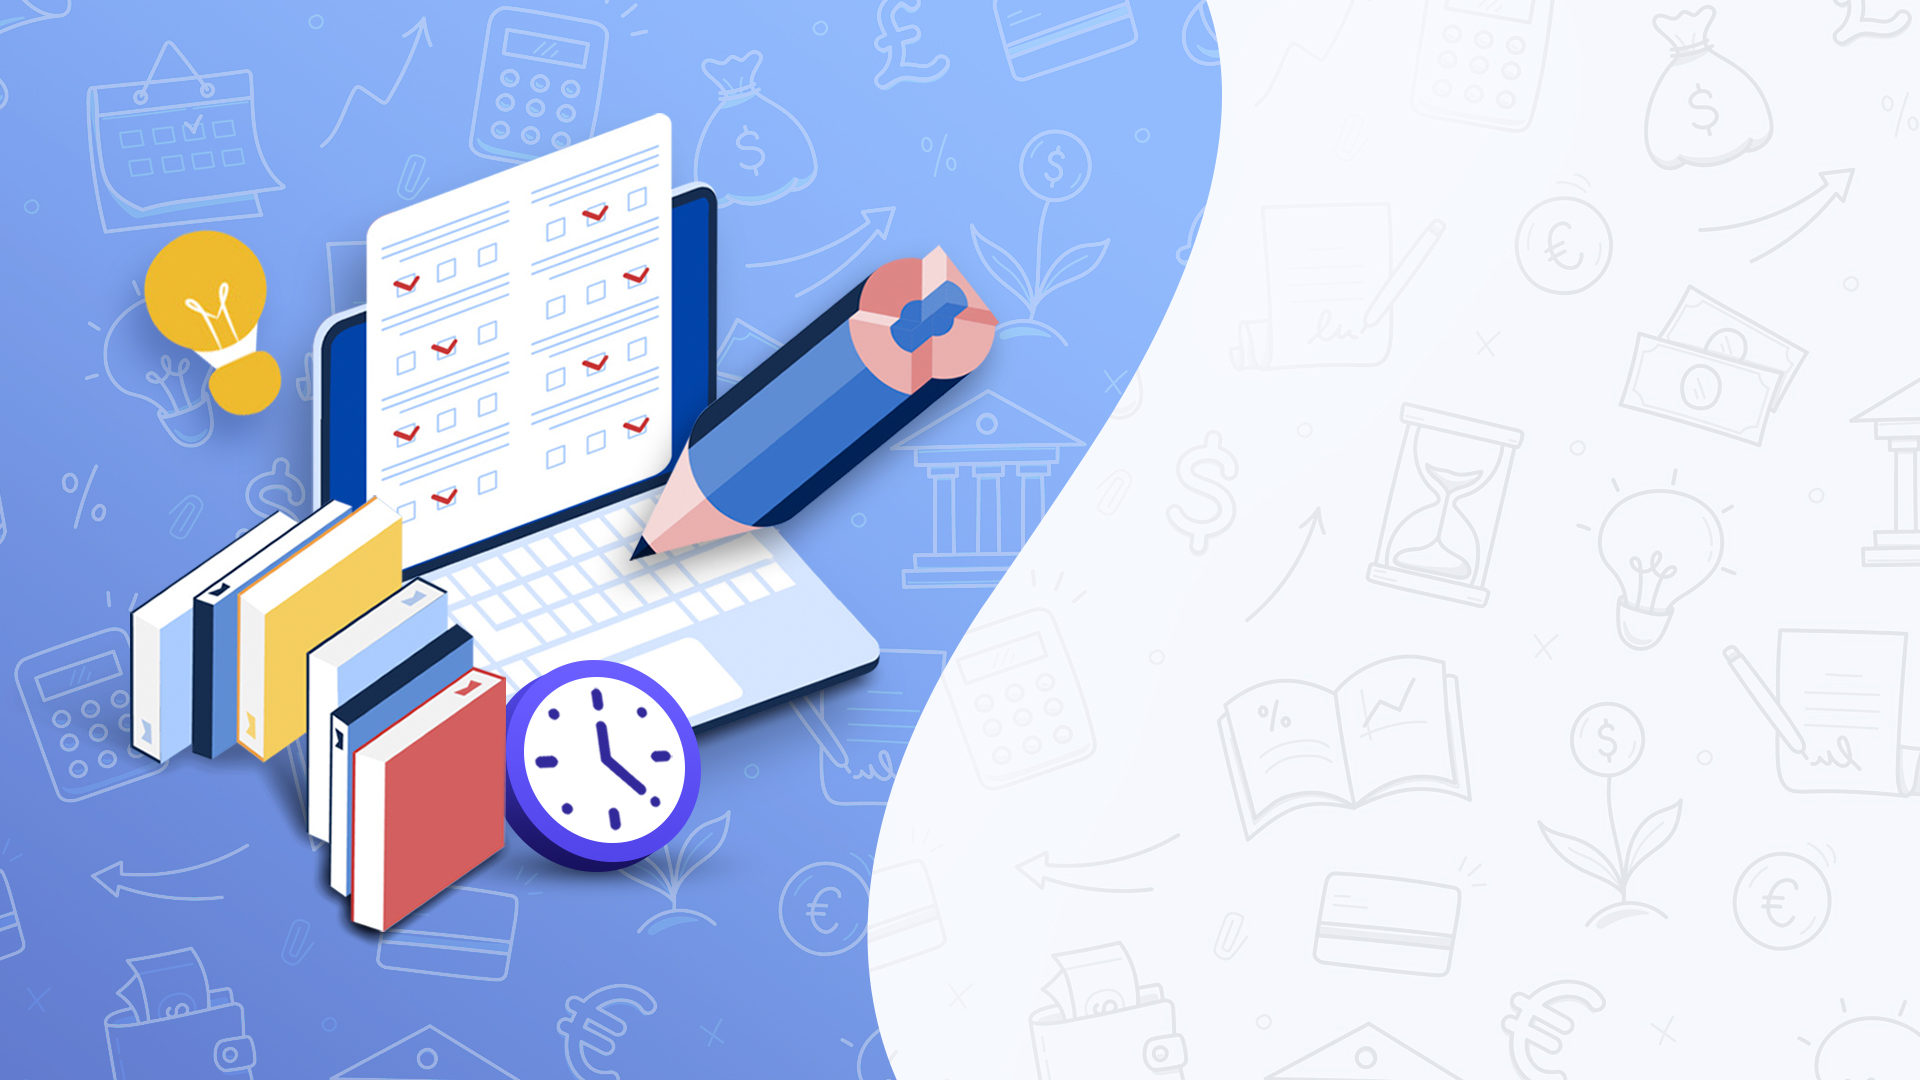
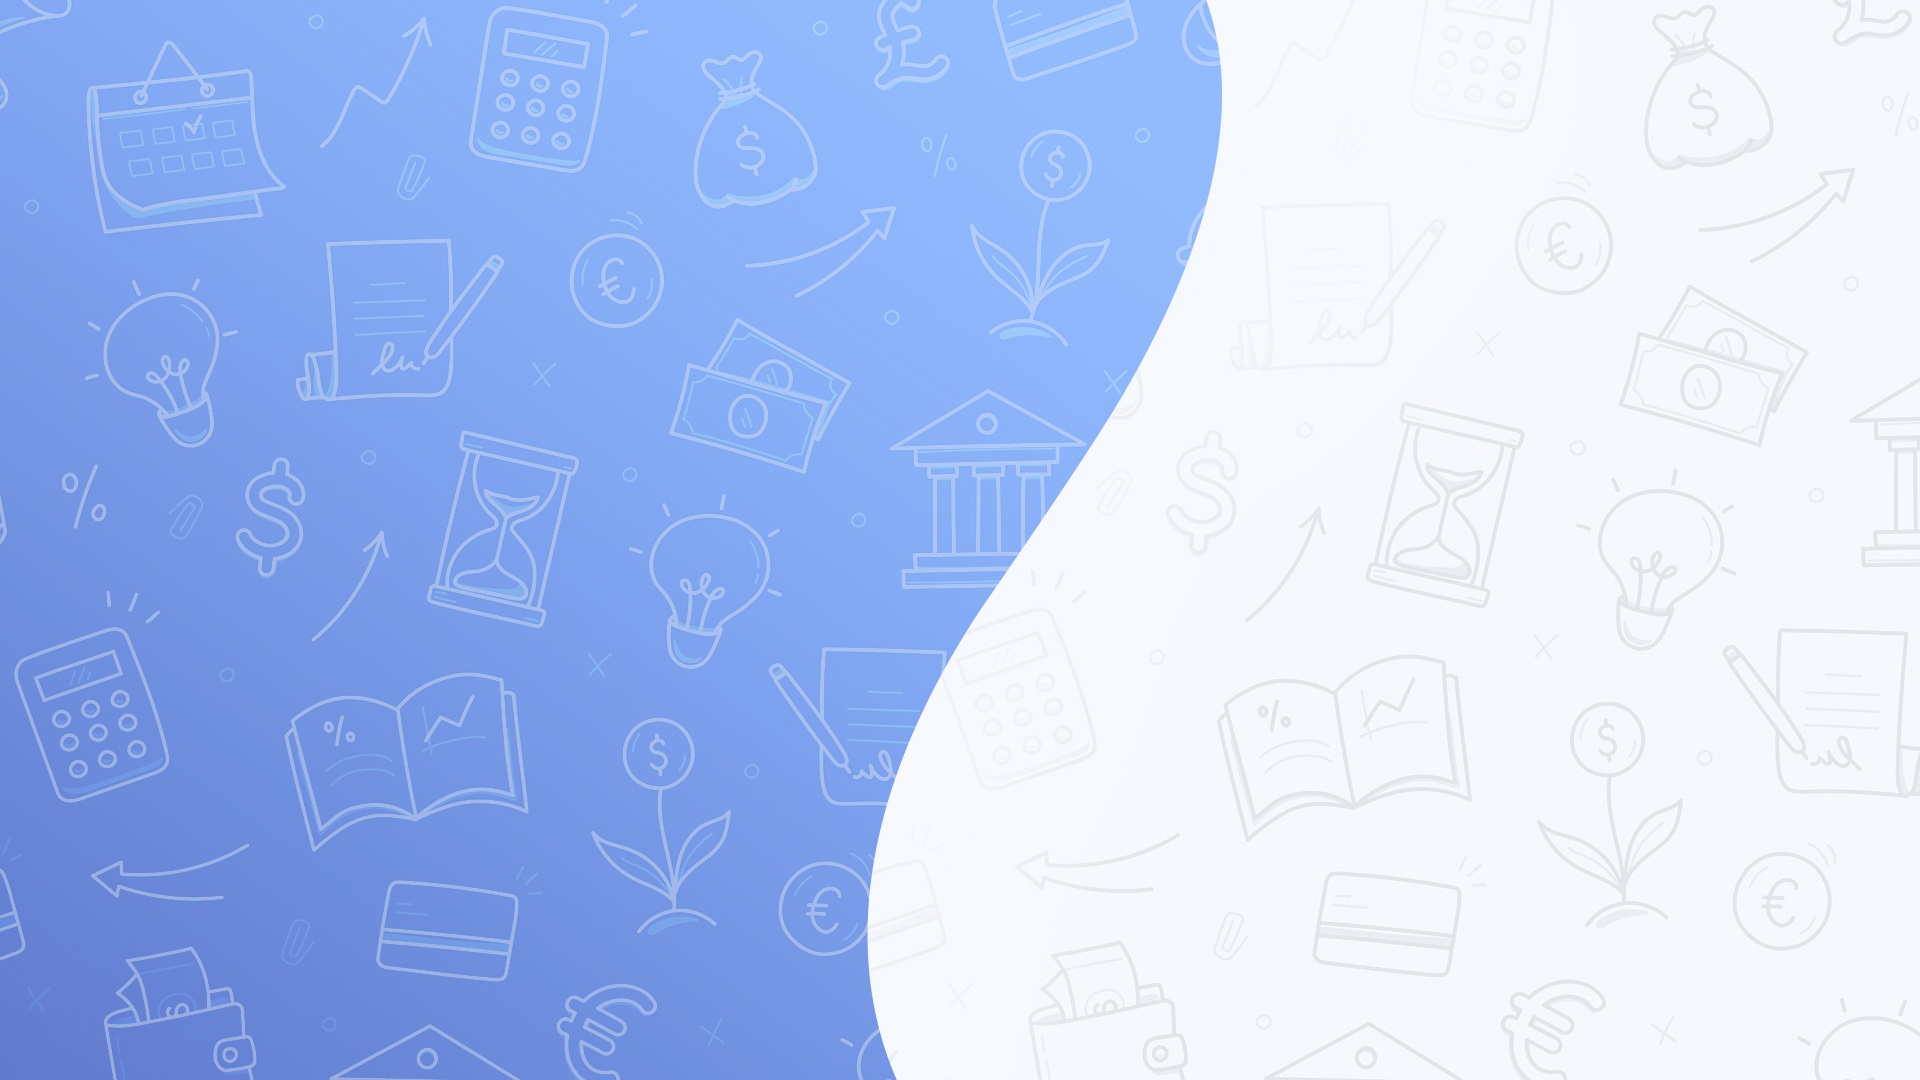
edit background image in index page

Changed region(s): [[0.0312, 0.0917, 0.5312, 0.8861]]

diff --git a/src/Pages/IndexPage.vue b/src/Pages/IndexPage.vue
@@ -4,6 +4,7 @@
 
 <template>
   <div class="page">
+    <img src="@/assets/images/design_image_index_page.png" alt="" class="design-image">
     <div class="quiz">
       <div class="quiz__title">
         <img src="@/assets/images/logo_colored.png" alt="hasanzadeh logo" class="logo">
@@ -33,6 +34,16 @@
   position: relative;
   background: url(@/assets/images/index_page_background.jpg);
   background-size: cover;
+}
+
+.design-image {
+  position: fixed;
+  top: 50%;
+  left: 25%;
+  transform: translate(-50%, -50%);
+  width: 30rem;
+  height: 5rem;
+  object-fit: fill;
 }
 
 .quiz {
@@ -70,12 +81,11 @@
     justify-content: center;
 
     &__text {
-      font-size: 2rem;
+      font-size: 1.75rem;
       color: #171264;
       font-weight: 700;
       @media only screen and (max-width: 950px) {
-        font-size: 1.8rem;
-
+        font-size: 1.65rem;
       }
     }
   }
@@ -90,7 +100,7 @@
     align-items: center;
     justify-content: center;
     @media only screen and (max-width: 950px) {
-      font-size: 1.1rem;
+      font-size: 1rem;
     }
     &__icon {
       width: 2rem;
@@ -108,13 +118,13 @@
     gap: 1.5rem;
 
     &__title {
-      font-size: 1.5rem;
+      font-size: 1.35rem;
       color: #171264;
       font-weight: 700;
     }
 
     &__rule {
-      font-size: 1.2rem;
+      font-size: 1.1rem;
       font-weight: 600;
       color: #5E605F;
       position: relative;
@@ -145,7 +155,7 @@
     display: flex;
     align-items: center;
     gap: 1rem;
-    font-size: 1.2rem;
+    font-size: 1.1rem;
     font-weight: 600;
   }
 }
@@ -158,7 +168,7 @@
   background-color: #9DF2DF;
   color: #171264;
   @media only screen and (max-width: 950px) {
-    font-size: 1.1rem;
+    font-size: 1rem;
   }
 }
 

diff --git a/src/Pages/ExamPage.vue b/src/Pages/ExamPage.vue
@@ -129,6 +129,7 @@ const questions = reactive([
   },
 ])
 
+
 const currentQuestionId = ref(1)
 const questionCounter = ref(1)
 const currentAnswerId = ref(null)
